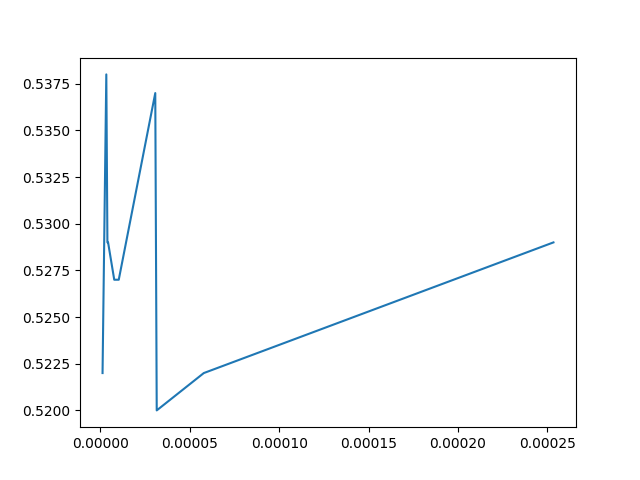
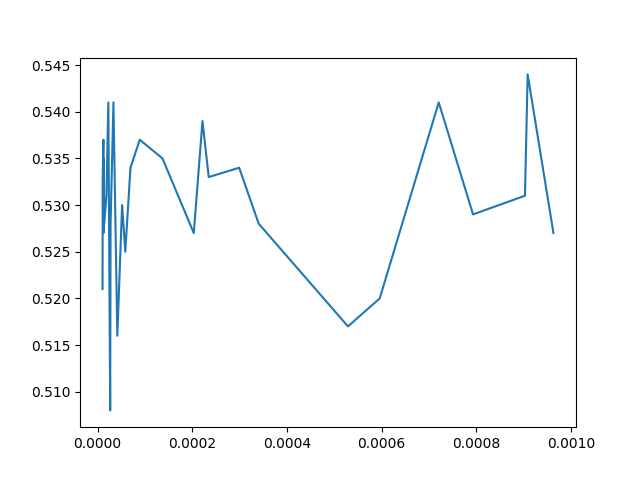
all data collected

diff --git a/assignment2/assignment2.py b/assignment2/assignment2.py
@@ -17,7 +17,8 @@ def task1_2():
     W, b = initialize_network_params(60, train_X.shape[0], train_Y.shape[0])
     etas = [1e-5, 1e-1, 800]
     GDParams = [100, etas, 3]
-    W, b, train_cost, val_cost, train_accuracy, val_accuracy = MiniBatchGD([train_X, train_Y, train_y], [val_X, val_Y, val_y], GDParams, W, b, 0.01)
+    W, b, train_cost, val_cost, train_accuracy, val_accuracy = MiniBatchGD([train_X, train_Y, train_y],
+                                                                           [val_X, val_Y, val_y], GDParams, W, b, 0.01)
     plot_train_and_val_performance(train_cost, val_cost, 'Cost')
     plot_train_and_val_performance(train_accuracy, val_accuracy, 'Accuracy')
     print(train_cost)
@@ -52,7 +53,7 @@ def fine_search():
     test_X = test_X[:, 1000:]
     test_Y = test_Y[:, 1000:]
     test_y = test_y[1000:]
-    performance_of_lambdas = search_range_of_lambda(-6, -3, 10, [train_X, train_Y, train_y], [val_X, val_Y, val_y])
+    performance_of_lambdas = search_range_of_lambda(-5, -3, 30, [train_X, train_Y, train_y], [val_X, val_Y, val_y])
     print(performance_of_lambdas)
     items = performance_of_lambdas.items()
     items = sorted(items)
@@ -61,9 +62,31 @@ def fine_search():
     plt.show()
 
 
+def best_param_performance():
+    best_lambda = 0.009
+    train_X, train_Y, train_y = combine_train_sets()
+    test_X, test_Y, test_y = unpack_batch(LoadBatch('test_batch'))
+    val_X = test_X[:, :1000]
+    val_Y = test_Y[:, :1000]
+    val_y = test_y[:1000]
+    test_X = test_X[:, 1000:]
+    test_Y = test_Y[:, 1000:]
+    test_y = test_y[1000:]
+    W, b = initialize_network_params(60, train_X.shape[0], train_Y.shape[0])
+    etas = [1e-5, 1e-1, 2 * floor(train_X.shape[1] / 100)]
+    GDParams = [100, etas, 5]
+    W, b, train_cost, val_cost, train_accuracy, val_accuracy = MiniBatchGD([train_X, train_Y, train_y],
+                                                                           [val_X, val_Y, val_y], GDParams, W, b,
+                                                                           best_lambda)
+    plot_train_and_val_performance(train_cost, val_cost, 'Cost')
+    plot_train_and_val_performance(train_accuracy, val_accuracy, 'Accuracy')
+    print(train_cost)
+    print(val_cost)
+    print(ComputeAccuracy(test_X, test_y, W, b))
+
 
 def main():
-    fine_search()
+    best_param_performance()
 
 
 main()

diff --git a/assignment2/latex/Assignment2.tex b/assignment2/latex/Assignment2.tex
@@ -10,3 +10,5 @@
 \title{DD2424 Assignment 2}
 \begin{document}
 \maketitle
+best network param final accuracy: 0.5263333333333333
+\end{document}
